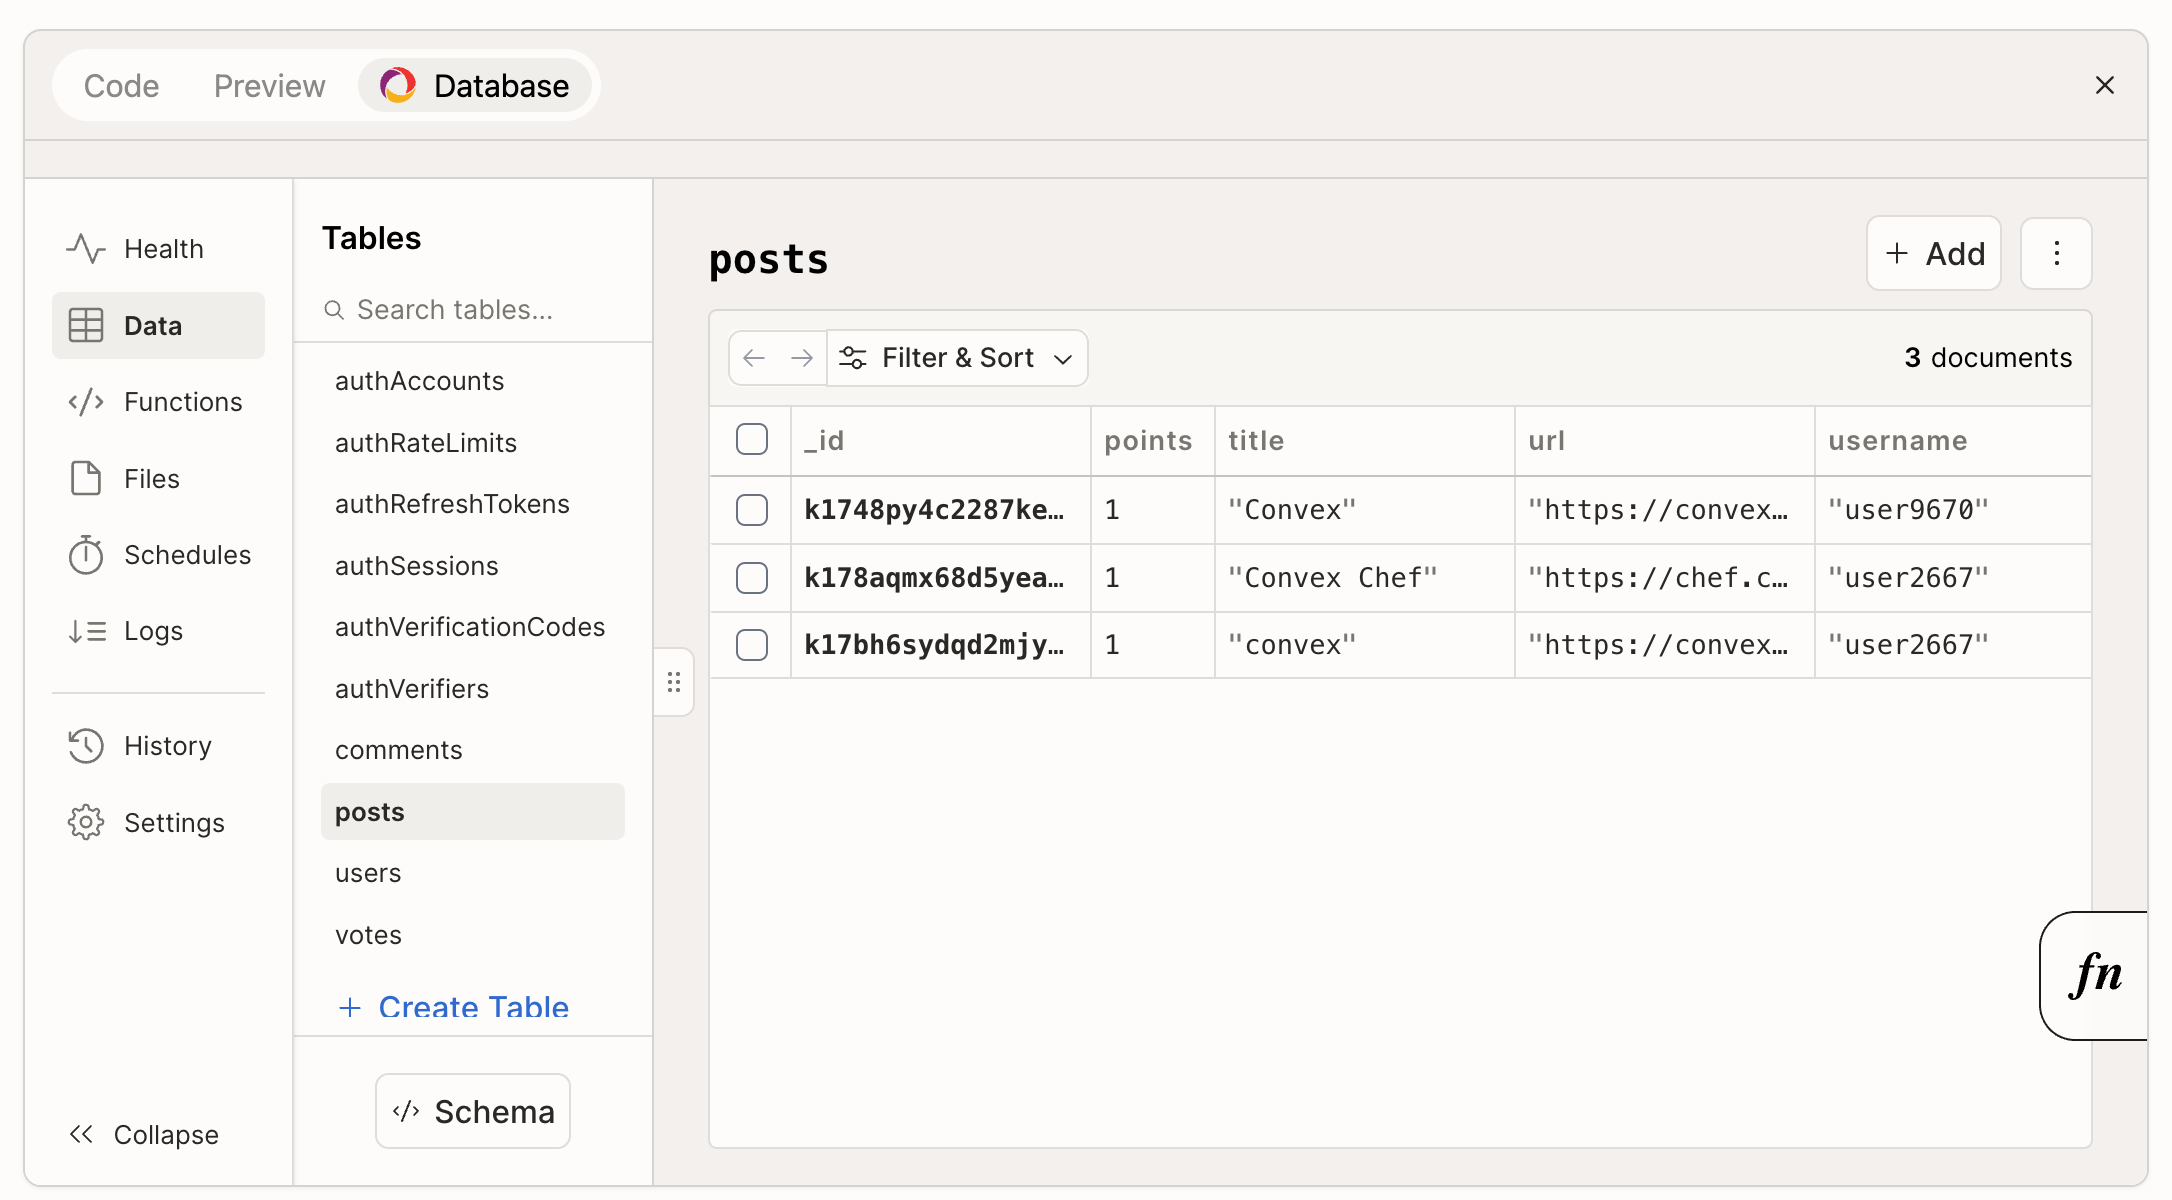
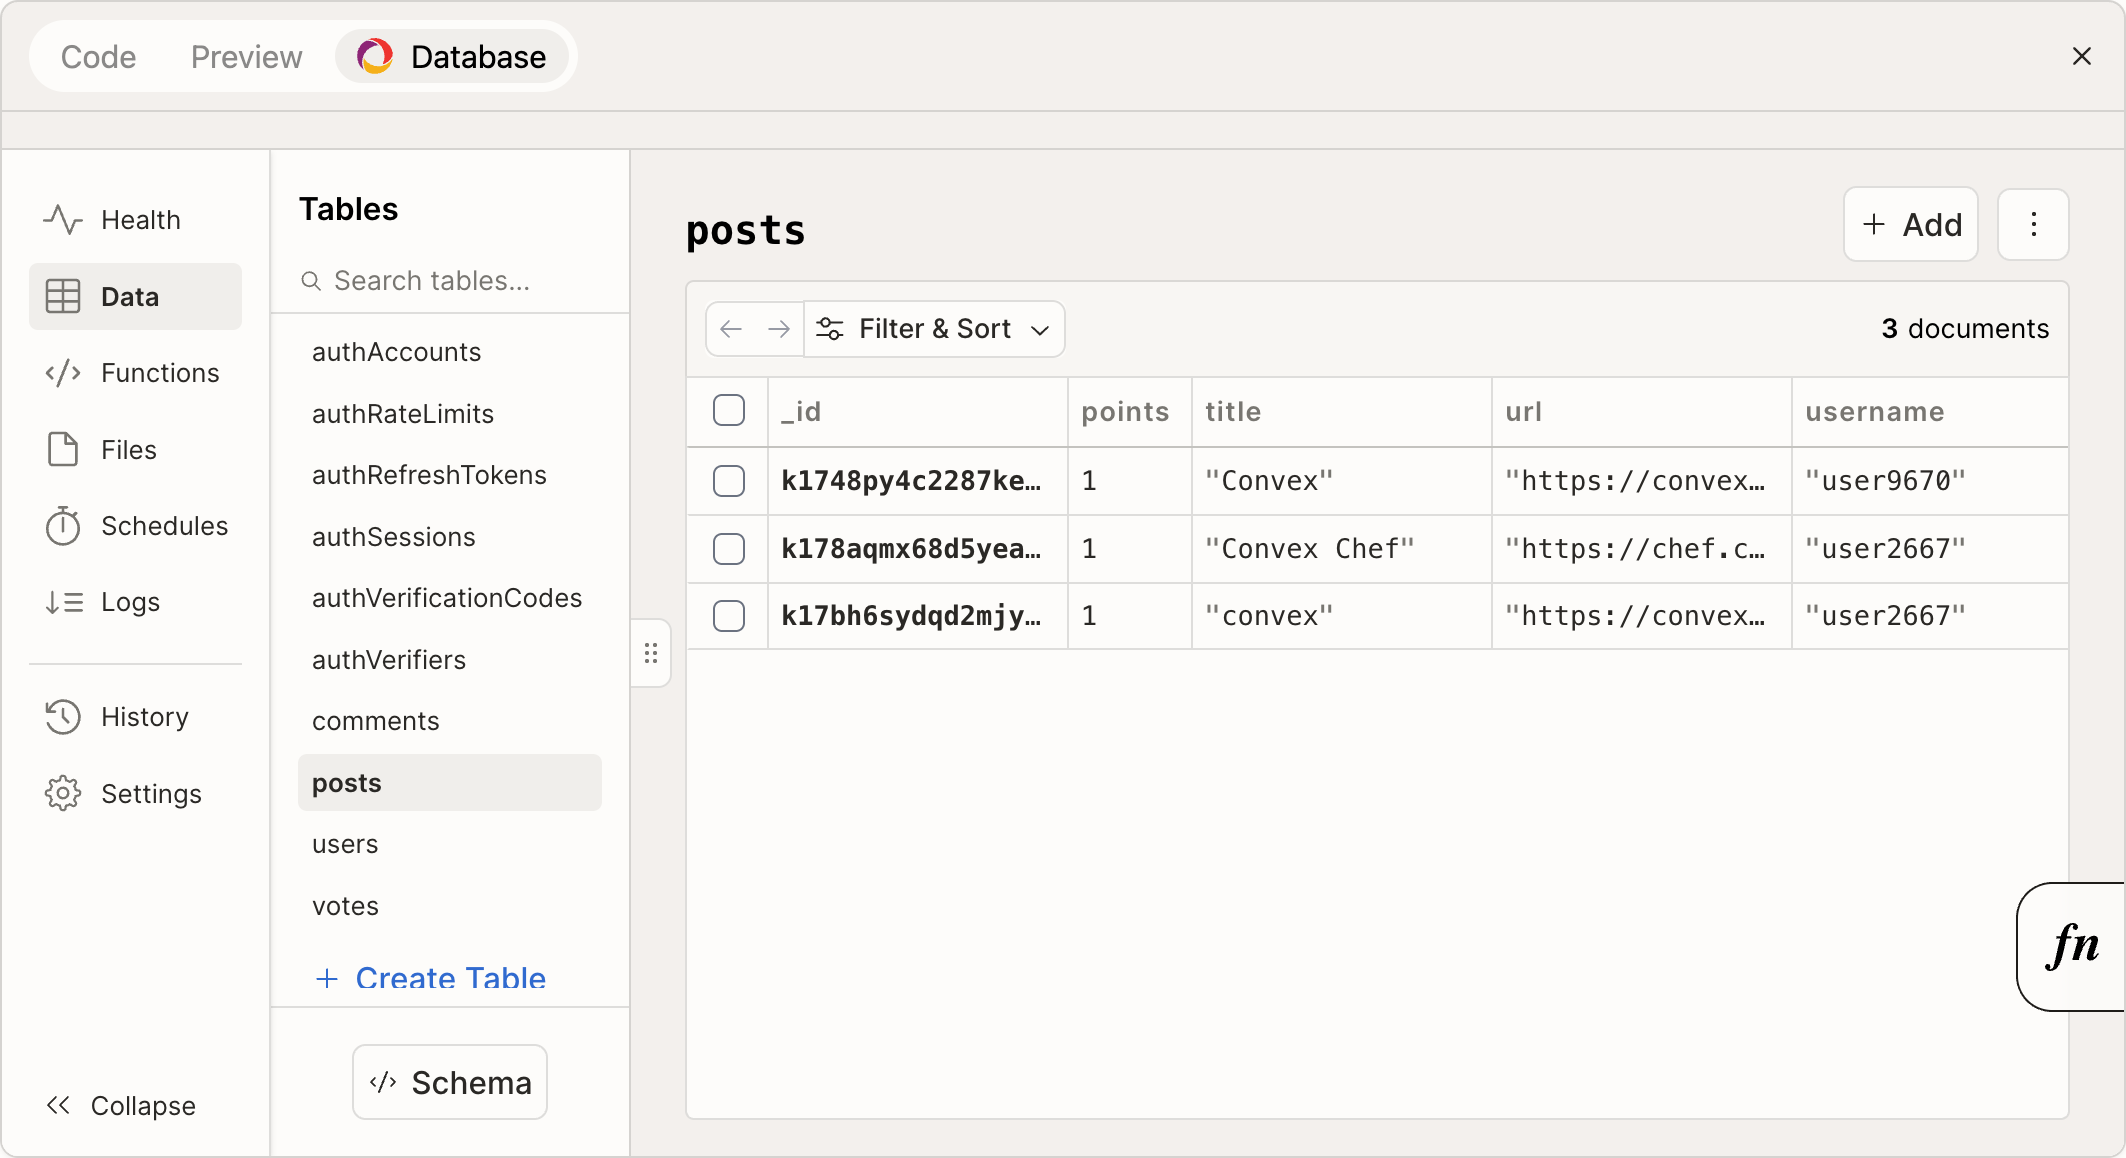
Fix layout shift when going to different tabs (#558)

diff --git a/app/components/landing/Dashboard.tsx b/app/components/landing/Dashboard.tsx
@@ -88,8 +88,8 @@ export default function Dashboard() {
           <img
             src={dashboardFeatures[activeFeature].imageUrl}
             alt={`${dashboardFeatures[activeFeature].title} screenshot`}
-            width={2172}
-            height={1200}
+            width={2126}
+            height={1158}
           />
         </div>
       </div>
